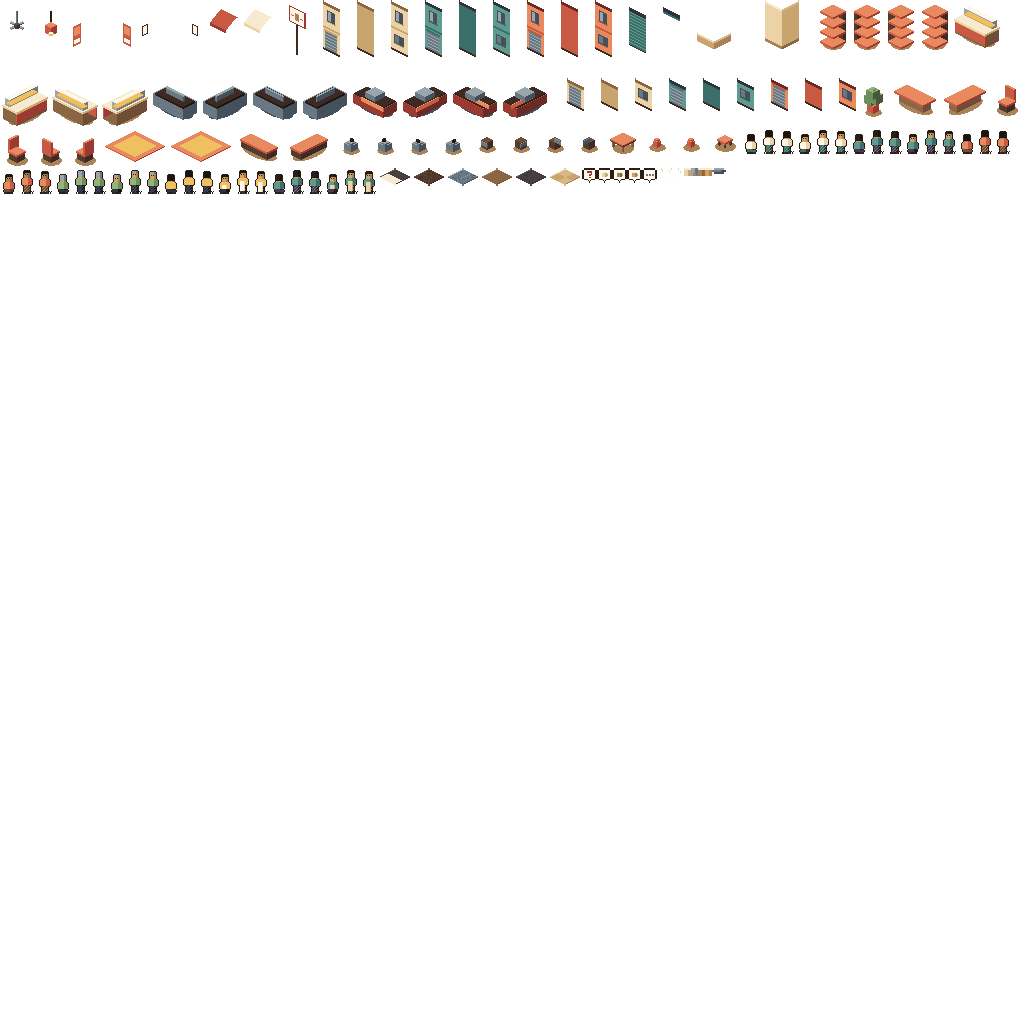
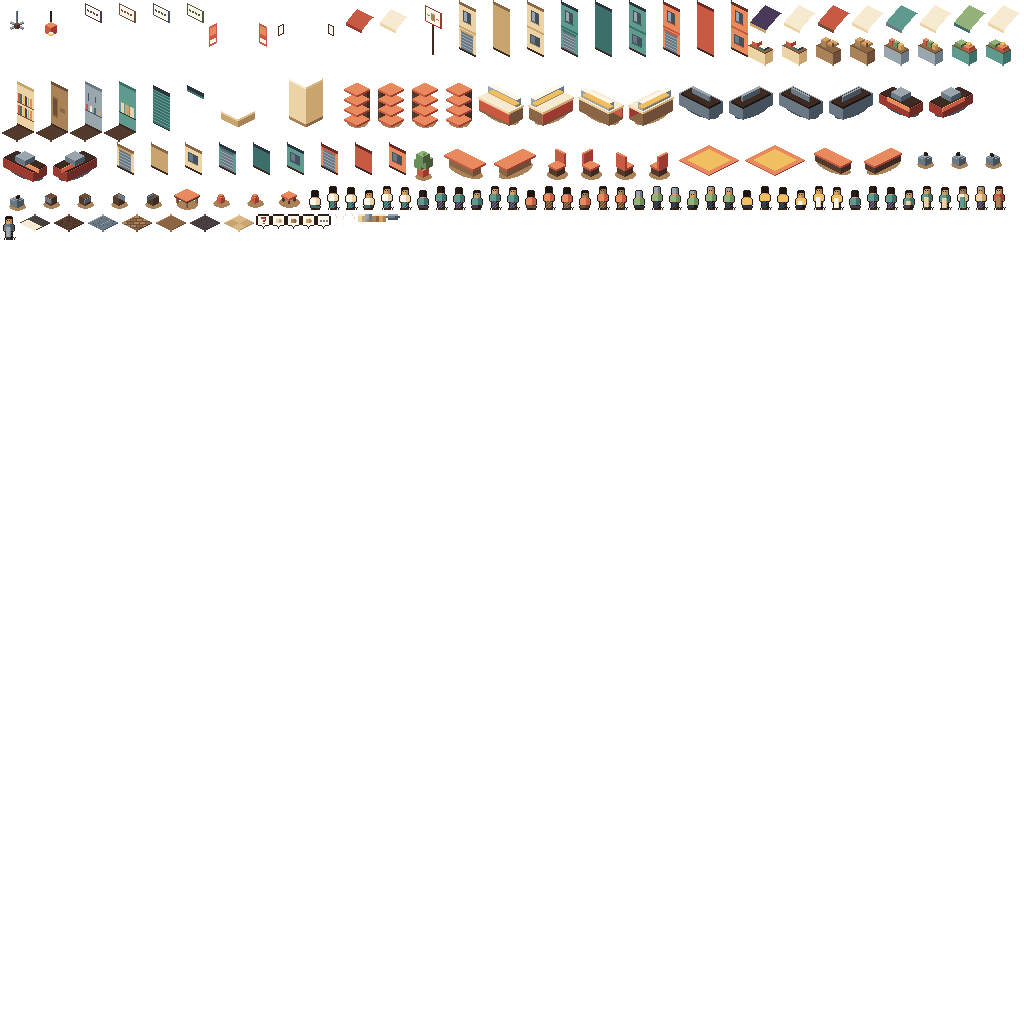
M3 S3: street art and camera — four shop stalls with keepers (render/street-shops.ts, static sprites, mirrored on −x edges), cobbled lane floor, dead-zone camera follow while the player is outside the shop, home button (ui/hud/nav.ts)

Changed region(s): [[0.0, 0.0, 1.0, 0.25], [0.0938, 0.0, 0.1562, 0.0312]]

diff --git a/tools/placeholder-objects.ts b/tools/placeholder-objects.ts
@@ -289,3 +289,109 @@ export function drawShopFront(): Array<[string, IsoImage]> {
   out.push(['shop/sign', sign]);
   return out;
 }
+
+/**
+ * Neighbourhood shop stalls (M3): per front tile a back wall with shelves (`stall/<k>_back`) and
+ * a counter with goods under a striped awning (`stall/<k>_front_<a|b>`), plus one signboard per
+ * shop (`stall/<k>_sign`). Drawn facing +v (a south-facing front); src/render/street-shops.ts
+ * mirrors them for fronts on a −x edge. The keeper stands between the two.
+ */
+export function drawStalls(): Array<[string, IsoImage]> {
+  type Stall = { wall: string; trim: string; awning: [string, string]; goods: (img: IsoImage) => void; shelf: (img: IsoImage) => void; sign: string };
+  const STALLS: Record<string, Stall> = {
+    market: {
+      wall: '5e9a8e',
+      trim: '3c6e6a',
+      awning: ['94b37a', 'f6ead0'],
+      goods: (img) => {
+        img.box(0.08, 0.55, 0.45, 0.95, 12, 15, ['94b37a', '6b8f5a', '46573a']); // greens
+        img.box(0.55, 0.55, 0.92, 0.95, 12, 15, ['e98a5e', 'c85a44', '9a3a30']); // fruit
+        img.box(0.6, 0.6, 0.8, 0.8, 15, 17, ['f0c060', 'd9a05b', 'a98258']);
+      },
+      shelf: (img) => {
+        for (const [a, hex] of [[0.1, 'ecd3a5'], [0.4, 'c8a46e'], [0.7, 'ecd3a5']] as const) img.wallQuad('n', a, a + 0.22, 14, 24, hex); // sacks of tea
+        img.wallQuad('n', 0, 1, 13, 14, '2c3440');
+      },
+      sign: '46573a',
+    },
+    books: {
+      wall: 'ecd3a5',
+      trim: 'c8a46e',
+      awning: ['4a3a5a', 'f6ead0'],
+      goods: (img) => {
+        img.box(0.1, 0.6, 0.4, 0.9, 12, 16, ['fff8ea', 'c85a44', '9a3a30']);
+        img.box(0.5, 0.6, 0.85, 0.9, 12, 14, ['fff8ea', '3c6e6a', '2c3440']);
+      },
+      shelf: (img) => {
+        const spines = ['c85a44', '3c6e6a', 'f0c060', '4a3a5a', '94b37a', 'e98a5e'];
+        for (const z of [12, 24]) {
+          img.wallQuad('n', 0, 1, z - 1, z, '6e4e36');
+          spines.forEach((hex, k) => img.wallQuad('n', 0.06 + k * 0.15, 0.17 + k * 0.15, z, z + 9, hex));
+        }
+      },
+      sign: '4a3a5a',
+    },
+    furniture: {
+      wall: 'a98258',
+      trim: '6e4e36',
+      awning: ['c85a44', 'f6ead0'],
+      goods: (img) => {
+        img.box(0.15, 0.6, 0.45, 0.9, 12, 18, ['d9a05b', 'a98258', '8a6644']); // a stool
+        img.box(0.55, 0.55, 0.9, 0.95, 16, 18, ['d9a05b', 'a98258', '8a6644']); // a small table top
+        img.box(0.6, 0.6, 0.66, 0.66, 12, 16, ['8a6644', '6e4e36', '523a2c']);
+      },
+      shelf: (img) => {
+        img.wallQuad('n', 0.1, 0.45, 10, 30, '8a6644'); // a cupboard
+        img.wallQuad('n', 0.15, 0.4, 12, 28, '6e4e36');
+        img.wallQuad('n', 0.55, 0.9, 18, 22, '8a6644'); // a shelf
+      },
+      sign: '6e4e36',
+    },
+    hardware: {
+      wall: '9aa6ae',
+      trim: '6a7884',
+      awning: ['5e9a8e', 'f6ead0'],
+      goods: (img) => {
+        const cans: Array<[string, string, string]> = [
+          ['e98a5e', 'c85a44', '9a3a30'],
+          ['94b37a', '6b8f5a', '46573a'],
+          ['f0c060', 'd9a05b', 'a98258'],
+        ];
+        cans.forEach((r, k) => img.box(0.1 + k * 0.28, 0.65, 0.3 + k * 0.28, 0.85, 12, 17, r));
+      },
+      shelf: (img) => {
+        for (const [a, hex] of [[0.05, 'c85a44'], [0.3, 'f6ead0'], [0.55, '3c6e6a'], [0.8, 'c8a46e']] as const) img.wallQuad('n', a, a + 0.15, 16, 22, hex); // tiles
+        img.wallQuad('n', 0, 1, 15, 16, '44505c');
+        img.wallQuad('n', 0.2, 0.25, 26, 34, '44505c'); // hanging tools
+        img.wallQuad('n', 0.6, 0.66, 27, 33, '6e4e36');
+      },
+      sign: '44505c',
+    },
+  };
+  const out: Array<[string, IsoImage]> = [];
+  for (const [k, s] of Object.entries(STALLS)) {
+    const back = new IsoImage(1, 1, 46);
+    back.wallQuad('n', 0, 1, 0, 44, s.wall);
+    back.wallQuad('n', 0, 1, 0, 2, '3d2a22');
+    back.wallQuad('n', 0, 1, 41, 44, s.trim);
+    s.shelf(back);
+    back.box(0, 0, 1, 1, 0, 0, ['523a2c', '523a2c', '523a2c']); // stall floor
+    out.push([`stall/${k}_back`, back]);
+    for (const [ab, hex] of [['a', s.awning[0]], ['b', s.awning[1]]] as const) {
+      const front = new IsoImage(1, 1, 48);
+      const P = (u: number, v: number, z: number) => front.at(u, v, z);
+      front.box(0, 0.5, 1, 1, 0, 12, [s.trim, s.wall, s.trim]); // counter
+      front.box(0, 0.5, 1, 1, 11, 12, ['8a6644', '6e4e36', '523a2c']); // counter top
+      s.goods(front);
+      front.poly([P(0, 0, 44), P(1, 0, 44), P(1, 0.95, 34), P(0, 0.95, 34)], hex);
+      front.poly([P(0, 0.95, 34), P(1, 0.95, 34), P(1, 0.95, 31), P(0, 0.95, 31)], ab === 'a' ? s.trim : 'ecd3a5'); // valance
+      out.push([`stall/${k}_front_${ab}`, front]);
+    }
+    const sign = new IsoImage(1, 1, 58);
+    sign.wallQuad('n', 0, 1, 44, 56, s.sign);
+    sign.wallQuad('n', 0.06, 0.94, 45, 55, 'fff8ea');
+    for (let a = 0.15; a < 0.85; a += 0.18) sign.wallQuad('n', a, a + 0.1, 49, 51, s.sign); // lettering marks
+    out.push([`stall/${k}_sign`, sign]);
+  }
+  return out;
+}

diff --git a/src/main.ts b/src/main.ts
@@ -11,7 +11,10 @@ import { ShopFront } from './render/shopfront';
 import { ServiceLayer } from './render/service';
 import { TASK_KIND, findTask, firstTask, taskForCustomer } from './game/service-taps';
 import { installQueue } from './ui/hud/queue';
-import { MAX_TASKS } from './shared/layout';
+import { NavButtons } from './ui/hud/nav';
+import { StreetShops } from './render/street-shops';
+import { isShopZone } from './shared/rules/access';
+import { MAX_TASKS, WORKER_SLOT0 } from './shared/layout';
 import { FloorChunks } from './render/chunks';
 import { ObjectLayer } from './render/objects';
 import { NpcLayer } from './render/npcs';
@@ -72,6 +75,7 @@ const ghost = new Ghost(objects, objects.layer);
 const heat = new HeatLayer(view);
 const npcs = new NpcLayer(view, atlas, objects.layer);
 const shopFront = new ShopFront(atlas, objects.layer);
+const streetShops = new StreetShops(atlas, objects.layer);
 const serviceProps = new ServiceLayer(view, atlas, objects.layer, npcs);
 stage.world.addChild(objects.floorLayer, heat.g, ghost.marks, objects.layer, npcs.bubbles);
 // Music starts after the first frame and the first tap; the sample rate follows the tier then.
@@ -111,7 +115,7 @@ const bridge: SimBridge = new SimBridge(view, {
     if (!booted) {
       booted = true;
       showTitleCard();
-      camera.centreOn(isoX(30, 16), isoY(30, 16)); // the shop, with the pavement in front
+      centreOnShop();
       requestAnimationFrame(() => {
         pickMusic();
         setInterval(pickMusic, 5000); // follows the game clock (M5 adds weather)
@@ -249,9 +253,41 @@ build.onChange(() => {
   document.body.classList.toggle('building', build.open);
 });
 
+/** The shop, with the pavement in front. */
+function centreOnShop(): void {
+  camera.centreOn(isoX(30, 16), isoY(30, 16));
+}
+// The camera follows the player while they're out in the street, unless the player just panned.
+let lastPanAt = -1e9;
+let followOff = false;
+const FOLLOW_PAUSE_MS = 2500;
+function followPlayer(now: number): void {
+  if (build.open || now - lastPanAt < FOLLOW_PAUSE_MS) return;
+  const body = npcs.bodyOf(WORKER_SLOT0);
+  if (!body) return;
+  const a = view.area;
+  const tx = tileAtX(body.x, body.y);
+  const ty = tileAtY(body.x, body.y);
+  if (tx < 0 || ty < 0 || tx >= a.w || ty >= a.h) return;
+  const inShop = isShopZone(a.access[ty * a.w + tx]!);
+  if (inShop) {
+    followOff = false; // back home: follow again next time they go out
+    return;
+  }
+  if (followOff) return;
+  camera.follow(body.x, body.y - 12, stage.size);
+}
+new NavButtons(document.getElementById('ui')!, {
+  home: () => {
+    followOff = true;
+    centreOnShop();
+  },
+});
+
 installGestures(stageEl, {
   pan: (dx, dy) => {
     const k = stage.size.devPerCss / stage.size.scale; // world px per CSS px
+    lastPanAt = performance.now();
     camera.pan(-dx * k, -dy * k);
   },
   zoomStep: (dir) => stage.setZoom(stage.size.zoom + dir),
@@ -282,6 +318,7 @@ const loop = new FrameLoop({
     // The world changed under the ghost (or the selected object moved): re-validate.
     if (objects.sync() && build.open) build.refresh();
     heat.update();
+    followPlayer(now);
     camera.apply(stage.world, stage.size);
     const v = camera.view;
     chunks.update(v.x0, v.y0, v.x1, v.y1);
@@ -357,4 +394,4 @@ if (debug) {
 
 // ?debug=1 in a production build: just enough for tools/dev/gate.mjs (open the shop, fill it, play).
 if (debug) Object.assign(window, { __debug: { bridge, view, pour } });
-if (import.meta.env.DEV) Object.assign(window, { __game: { view, bridge, loop, stage, camera, chunks, device, music, objects, npcs, build, pour, dayEnd, serviceProps, queueUi } });
+if (import.meta.env.DEV) Object.assign(window, { __game: { view, bridge, loop, stage, camera, chunks, device, music, objects, npcs, build, pour, dayEnd, serviceProps, queueUi, streetShops } });

diff --git a/src/render/street-shops.ts b/src/render/street-shops.ts
@@ -1,0 +1,69 @@
+// The neighbourhood's four shops (M3): per front tile a back wall with shelves and a counter with
+// goods under a striped awning, a signboard on the first tile, and the keeper standing between wall
+// and counter. Static pooled sprites in the objects' sortable container, built once from
+// shared/neighbourhood.ts; fronts on a −x edge use the same frames mirrored. Nothing per frame.
+import { Sprite, Texture, type Container } from 'pixi.js';
+import { HALF_H, HALF_W } from '../shared/iso';
+import { NEIGHBOURHOOD, type ShopSite } from '../shared/neighbourhood';
+import type { Atlas } from './atlas';
+
+/** World point of tile-space (u, v) (fractional tiles). */
+const wx = (u: number, v: number): number => (u - v) * HALF_W;
+const wy = (u: number, v: number): number => (u + v) * HALF_H;
+
+export class StreetShops {
+  /** Keeper feet in world px, by shop id (tap targets and the visit marker). */
+  readonly keeperAt: { x: number; y: number }[] = [];
+
+  constructor(atlas: Atlas, layer: Container) {
+    for (const shop of NEIGHBOURHOOD.shops) this.build(shop, atlas, layer);
+  }
+
+  private build(s: ShopSite, atlas: Atlas, layer: Container): void {
+    const west = s.edge === 'w';
+    const tex = (name: string): Texture => atlas.get(`stall/${s.key}_${name}`) ?? Texture.EMPTY;
+    // A 1×1 frame at tile (x, y): footprint diamond at the bottom, top vertex at (16, height).
+    const add = (t: Texture, x: number, y: number, bias: number): void => {
+      const sp = new Sprite(t);
+      sp.roundPixels = true;
+      sp.scale.x = west ? -1 : 1;
+      sp.position.set(wx(x, y) - HALF_W + (west ? t.width : 0), wy(x, y) + 2 * HALF_H - t.height);
+      sp.zIndex = (x + y) * 16 + bias;
+      layer.addChild(sp);
+    };
+    for (let p = s.from; p < s.to; p++) {
+      // The counter row is one tile behind the pavement.
+      const x = west ? s.at - 1 : p;
+      const y = west ? p : s.at - 1;
+      add(tex('back'), x, y, 1);
+      add(tex((p - s.from) % 2 ? 'front_b' : 'front_a'), x, y, 8);
+      if (p === s.from) add(tex('sign'), x, y, 9);
+    }
+    // The keeper stands behind the counter in front of the visit tile, facing the street.
+    const kx = west ? s.at - 1 + 0.3 : s.visitX + 0.5;
+    const ky = west ? s.visitY + 0.5 : s.at - 1 + 0.3;
+    const k = new Sprite(atlas.get(`npc/s${s.id}_f`) ?? Texture.EMPTY);
+    k.anchor.set(0.5, 1);
+    k.roundPixels = true;
+    k.scale.x = west ? -1 : 1;
+    k.position.set(Math.round(wx(kx, ky)), Math.round(wy(kx, ky)));
+    k.zIndex = (Math.floor(kx) + Math.floor(ky)) * 16 + 4;
+    layer.addChild(k);
+    this.keeperAt[s.id] = { x: k.x, y: k.y };
+  }
+
+  /** The shop whose stall is under world point (x, y) (counter, keeper or awning), or −1. */
+  pick(x: number, y: number): number {
+    for (const s of NEIGHBOURHOOD.shops) {
+      // Inside any counter tile's sprite box (32 wide, from the awning top down to the floor).
+      for (let p = s.from; p < s.to; p++) {
+        const tx = s.edge === 'w' ? s.at - 1 : p;
+        const ty = s.edge === 'w' ? p : s.at - 1;
+        const cx = wx(tx, ty);
+        const top = wy(tx, ty) - 40;
+        if (x >= cx - HALF_W && x < cx + HALF_W && y >= top && y < wy(tx, ty) + 2 * HALF_H) return s.id;
+      }
+    }
+    return -1;
+  }
+}

diff --git a/tools/make-placeholders.ts b/tools/make-placeholders.ts
@@ -5,7 +5,7 @@
 import sharp from 'sharp';
 import { mkdirSync } from 'node:fs';
 import { diamondHalf } from './png.ts';
-import { drawFacades, drawObjects, drawShopFront, drawWalls } from './placeholder-objects.ts';
+import { drawFacades, drawObjects, drawShopFront, drawStalls, drawWalls } from './placeholder-objects.ts';
 import { drawCharacters } from './placeholder-characters.ts';
 
 const hex = (h: string): [number, number, number] => [parseInt(h.slice(0, 2), 16), parseInt(h.slice(2, 4), 16), parseInt(h.slice(4, 6), 16)];
@@ -69,6 +69,15 @@ const tiles: Record<string, Painter> = {
     if (e === 'br') return '44505c';
     return noise(x, y, 3) % 17 === 0 ? '44505c' : (x + y * 2) % 16 === 0 ? '9aa6ae' : '6a7884';
   },
+  lane: (x, y, e) => {
+    // Old cobbles: rounded stones in offset rows.
+    if (e === 'tl') return 'a98258';
+    if (e === 'br') return '523a2c';
+    const row = Math.floor(y / 3);
+    const col = Math.floor((x + (row % 2) * 3) / 6);
+    const edge = y % 3 === 0 || (x + (row % 2) * 3) % 6 === 0;
+    return edge ? '6e4e36' : (row + col) % 3 === 0 ? '8a6644' : 'a98258';
+  },
   dirt: (x, y, e) => {
     if (e === 'tl') return '6e4e36';
     if (e === 'br') return '3d2a22';
@@ -83,7 +92,7 @@ for (const [name, paint] of Object.entries(tiles)) {
   console.log(`art/sprites/floor/${name}.png`);
 }
 
-for (const [name, img] of [...drawWalls(), ...drawFacades(), ...drawShopFront(), ...drawObjects(), ...drawCharacters()]) {
+for (const [name, img] of [...drawWalls(), ...drawFacades(), ...drawShopFront(), ...drawStalls(), ...drawObjects(), ...drawCharacters()]) {
   const file = `art/sprites/${name}.png`;
   mkdirSync(file.slice(0, file.lastIndexOf('/')), { recursive: true });
   await sharp(img.px, { raw: { width: img.w, height: img.h, channels: 4 } }).png().toFile(file);

diff --git a/tools/placeholder-characters.ts b/tools/placeholder-characters.ts
@@ -38,6 +38,14 @@ const WORKERS: Look[] = [
   { shirt: '5e9a8e', longyi: '4a3a5a', check: '6a7884', skin: 'c8a46e', hair: '2a1d18', apron: 'ecd3a5' },
 ];
 
+/** Shopkeepers (M3): npc/s<shop>_f, standing behind their counters. Order = neighbourhood.json shops. */
+const KEEPERS: Look[] = [
+  { shirt: 'f6ead0', longyi: '6b8f5a', check: '94b37a', skin: 'a98258', hair: '1b1411', apron: '5e9a8e' },
+  { shirt: 'ecd3a5', longyi: '4a3a5a', check: '6a7884', skin: 'd9a05b', hair: '9aa6ae' },
+  { shirt: 'c85a44', longyi: '523a2c', check: '8a6644', skin: 'c8a46e', hair: '2a1d18', apron: 'a98258' },
+  { shirt: '6a7884', longyi: '2c3440', check: '44505c', skin: 'd9a05b', hair: '1b1411', apron: '9aa6ae' },
+];
+
 const LOOKS: Look[] = [
   { shirt: 'fff8ea', longyi: '3c6e6a', check: '5e9a8e', skin: 'd9a05b', hair: '1b1411' },
   { shirt: '5e9a8e', longyi: '4a3a5a', check: '6a7884', skin: 'c8a46e', hair: '2a1d18' },
@@ -163,6 +171,7 @@ export function drawCharacters(): Array<[string, Raw]> {
       out.push([`npc/c${i}_${v}_s`, person(look, back, 0, true)]);
     }
   });
+  KEEPERS.forEach((look, i) => out.push([`npc/s${i}_f`, person(look, false, 0, false)]));
   for (const d of drinks.presets) {
     const tea = CUP[d.key] ?? 'a98258';
     out.push([

diff --git a/src/ui/hud/nav.ts b/src/ui/hud/nav.ts
@@ -1,0 +1,25 @@
+// Neighbourhood navigation buttons (M3) on the right edge above the build button: home re-centres
+// the camera on the shop (and stops following the player until they walk again).
+import { t } from '../i18n';
+import './nav.css';
+
+export interface NavHooks {
+  home(): void;
+}
+
+export class NavButtons {
+  readonly root: HTMLElement;
+
+  constructor(parent: HTMLElement, hooks: NavHooks) {
+    this.root = document.createElement('div');
+    this.root.className = 'nav-btns';
+    const home = document.createElement('button');
+    home.className = 'hud-btn nav-home';
+    home.type = 'button';
+    home.innerHTML = `<span class="sym">⌂</span>`;
+    home.append(t('nav.home'));
+    home.addEventListener('click', () => hooks.home());
+    this.root.append(home);
+    parent.append(this.root);
+  }
+}

diff --git a/src/render/camera.ts b/src/render/camera.ts
@@ -22,6 +22,19 @@ export class Camera {
     this.y = y;
   }
 
+  /**
+   * Keeps world point (x, y) inside a dead zone around the centre (the middle 40 % of the view):
+   * the camera moves only as far as needed, so a walking player drags it along smoothly.
+   */
+  follow(x: number, y: number, size: StageSize): void {
+    const dx = size.w * 0.2;
+    const dy = size.h * 0.2;
+    if (x < this.x - dx) this.x = x + dx;
+    else if (x > this.x + dx) this.x = x - dx;
+    if (y < this.y - dy) this.y = y + dy;
+    else if (y > this.y + dy) this.y = y - dy;
+  }
+
   pan(dx: number, dy: number): void {
     this.x += dx;
     this.y += dy;

diff --git a/src/shared/layout.ts b/src/shared/layout.ts
@@ -35,8 +35,8 @@ export const M0_AREA_W = 64;
 export const M0_AREA_H = 48;
 
 /** Floor tile types (grid values in the `floor` layer). */
-export const FLOOR = { none: 0, road: 1, pavement: 2, shopTile: 3, dirt: 4, crossing: 5, kitchen: 6 } as const;
-export const FLOOR_TYPES = 7;
+export const FLOOR = { none: 0, road: 1, pavement: 2, shopTile: 3, dirt: 4, crossing: 5, kitchen: 6, lane: 7 } as const;
+export const FLOOR_TYPES = 8;
 
 /** TILE_PATCH layer ids. */
 export const TILE_LAYER = { floor: 0, wall: 1, zone: 2, access: 3, facade: 4 } as const;

diff --git a/src/ui/hud/nav.css b/src/ui/hud/nav.css
@@ -1,0 +1,11 @@
+.nav-btns {
+  position: absolute;
+  right: calc(var(--safe-r) + 10px);
+  bottom: calc(var(--safe-b) + 68px);
+  display: flex;
+  flex-direction: column;
+  gap: 8px;
+}
+body.building .nav-btns {
+  display: none;
+}

diff --git a/docs/M3.md b/docs/M3.md
@@ -91,7 +91,7 @@ DESIGN.md (§2, §4, §5, §8, §10, §11, §13), ARCHITECTURE.md (protocol v10,
 | --- | --- |
 | S1 Docs | ✅ |
 | S2 Neighbourhood map | ✅ 112×72 map from data (tea street bends into the market street; the lane branches east); customers enter from weighted street ends and house doors; west-edge fronts mirrored; farthest errand within 130 tiles |
-| S3 Street art and camera | |
+| S3 Street art and camera | ✅ stalls (back wall + shelves, counter + goods under a striped awning, sign) for the 4 shops, mirrored on −x edges; 4 keepers; cobbled lane floor; dead-zone camera follow outside the shop (paused 2.5 s after a pan); home button. Atlas 148 sprites, 240/1024 rows |
 | S4 Walking and visits | |
 | S5 Ingredients | |
 | S6 Shops and daily stock | |
